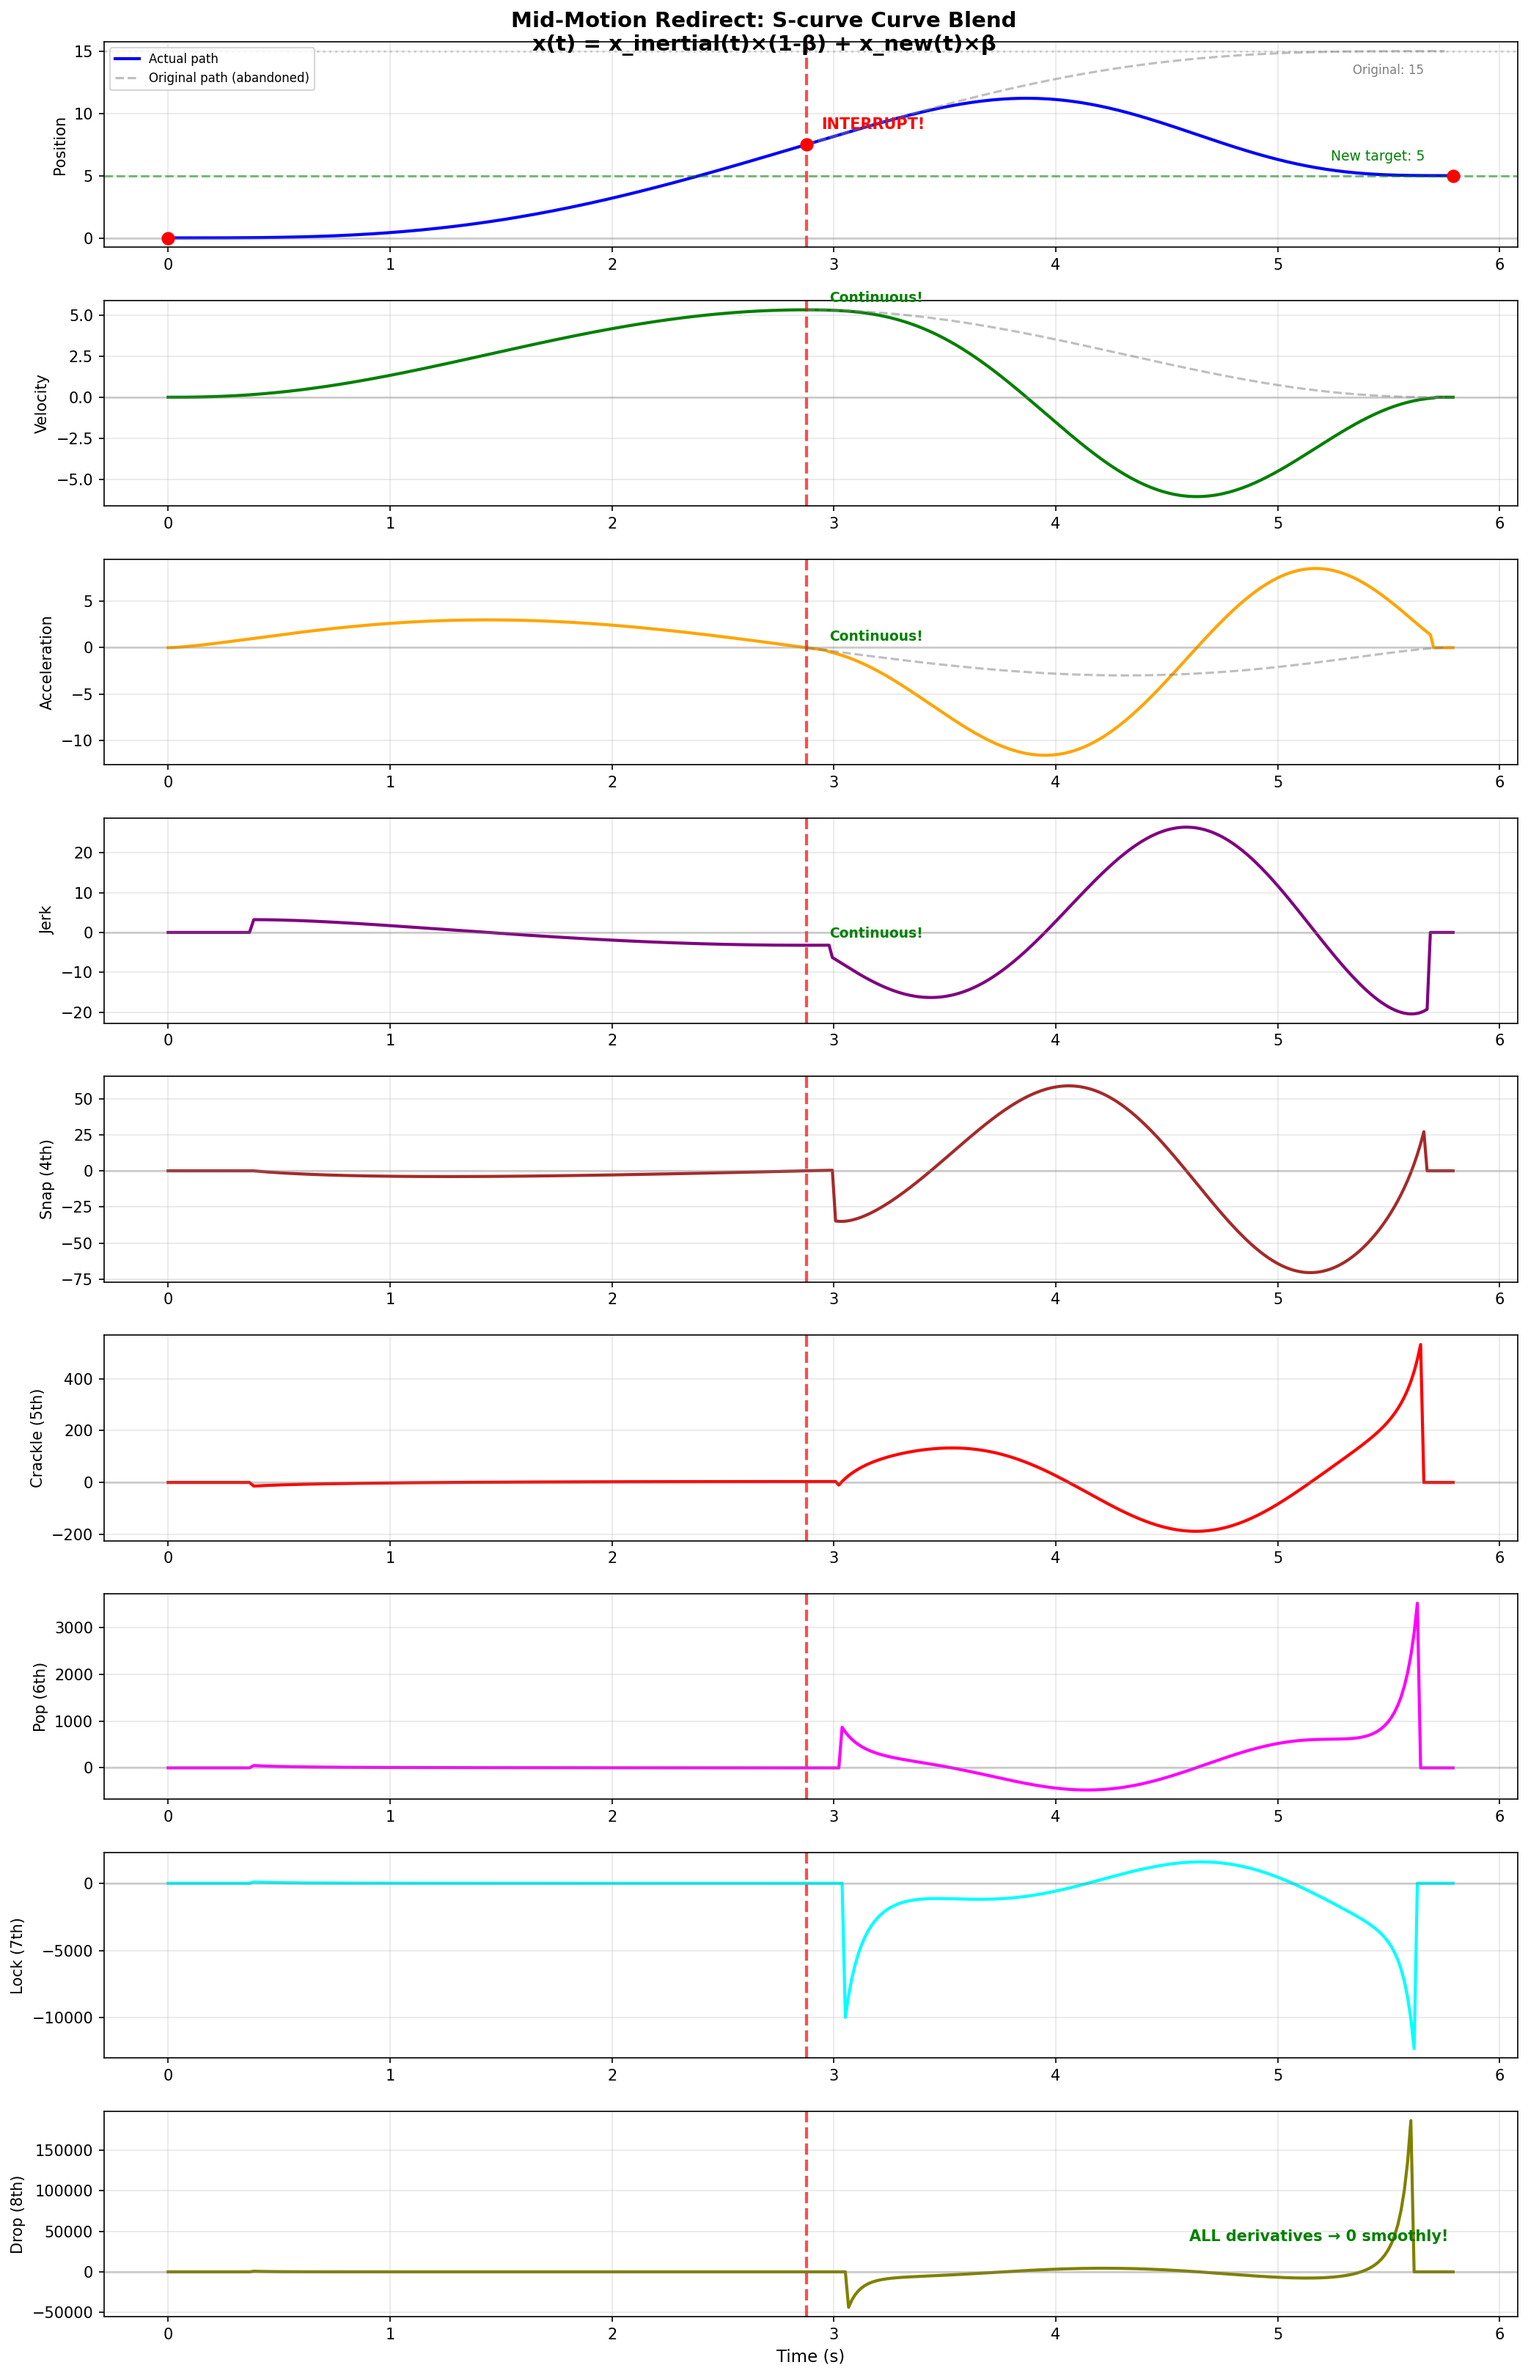
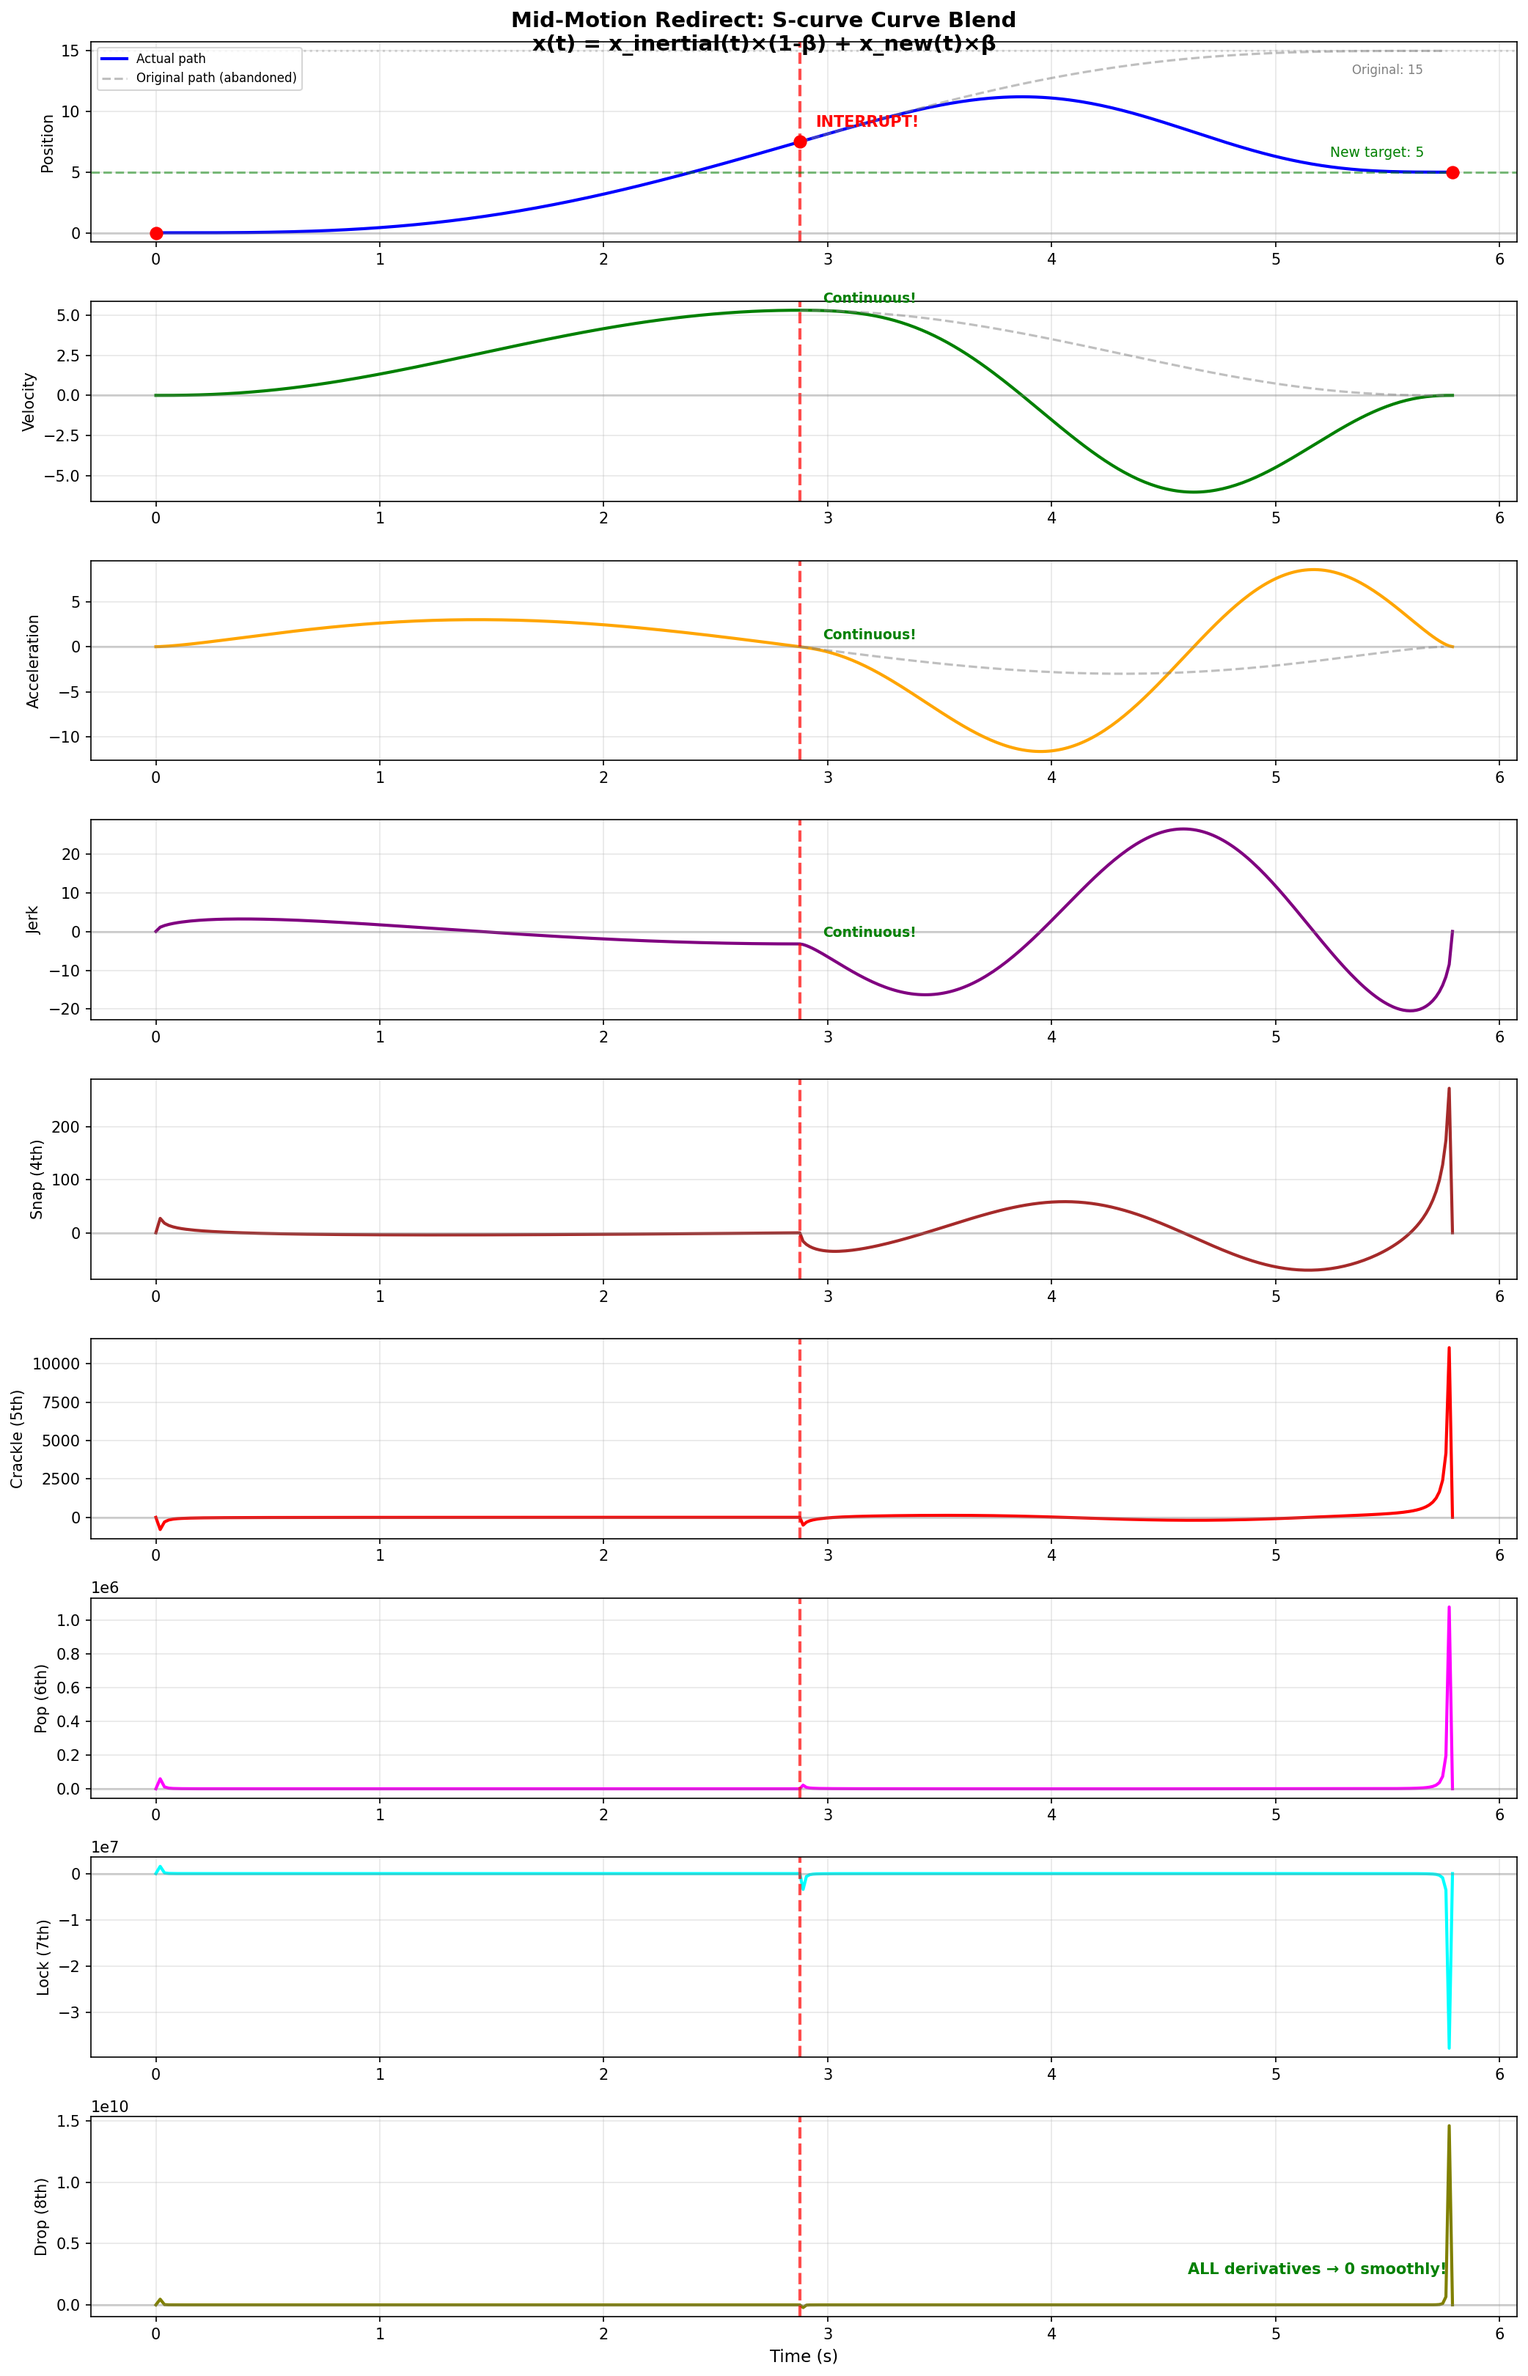
Implement proper Space Shift vs Curve Blend comparison
Both approaches now correctly use x_orig (original S-curve continuation):

Space Shift: x(t) = x_orig(t) + [x_target - x_orig_end] × β(s)
Curve Blend: x(t) = x_orig(t) × (1-β) + x_new(t) × β

Key changes:
- _get_orig_curve_derivatives uses original tau_dot to preserve velocity
- _eval_derivative properly implements both modes
- Both give C∞ continuity at interrupt but follow different paths
- Space Shift has more aggressive higher derivatives after interrupt
- Curve Blend has gentler transitions

diff --git a/src/scurvebeta/generalized.py b/src/scurvebeta/generalized.py
@@ -1456,10 +1456,12 @@ class BetaBlendMotion:
         """
         Compute the k-th derivative of position at time t ANALYTICALLY.
 
-        x(t) = x_inertial(t) * (1-β(s)) + x_new(t) * β(s)
-             = x_inertial(t) + (x_new(t) - x_inertial(t)) * β(s)
-             = x_inertial(t) + Δx(t) * β(s)
+        TWO MODES:
 
+        Space Shift: x(t) = x_orig(t) + [x_target - x_orig_end] × β(s)
+        Curve Blend: x(t) = x_orig(t) × (1-β) + x_new(t) × β
+
+        Both use x_orig (original S-curve continuation), NOT Taylor series!
         Uses the generalized Leibniz rule for derivatives of products.
         """
         t = np.asarray(t, dtype=float)
@@ -1477,25 +1479,83 @@ class BetaBlendMotion:
         beta_derivs = [bd / (T ** k) if T > 0 else (bd if k == 0 else np.zeros_like(t))
                        for k, bd in enumerate(beta_derivs_s)]
 
-        # Get inertial trajectory derivatives (matches initial state perfectly)
-        inertial_derivs = self._get_inertial_derivatives(t, order)
+        # Get original S-curve derivatives (continuation of original motion)
+        orig_derivs = self._get_orig_curve_derivatives(t, order)
 
-        # Get new S-curve derivatives
-        new_derivs = self._get_new_curve_derivatives(t, order)
+        if self.mode == 'shift':
+            # Space Shift: x(t) = x_orig(t) + shift × β(s)
+            # where shift = x_target - x_orig_end (constant)
+            shift = self.x_target - self.x_orig_end
 
-        # Δx^(k) = x_new^(k) - x_inertial^(k)
-        delta_derivs = [new_derivs[k] - inertial_derivs[k] for k in range(order + 1)]
+            # x^(n) = x_orig^(n) + shift × β^(n)
+            # (shift is constant, so its derivatives are 0)
+            result = orig_derivs[order] + shift * beta_derivs[order]
 
-        # Use Leibniz rule: (Δx * β)^(n) = Σ C(n,k) * Δx^(k) * β^(n-k)
-        from math import comb
-        product_deriv = np.zeros_like(t)
-        for k in range(order + 1):
-            product_deriv += comb(order, k) * delta_derivs[k] * beta_derivs[order - k]
+        else:  # mode == 'blend'
+            # Curve Blend: x(t) = x_orig(t) × (1-β) + x_new(t) × β
+            #            = x_orig(t) + (x_new(t) - x_orig(t)) × β
+            #            = x_orig(t) + Δx(t) × β
 
-        # x^(n) = x_inertial^(n) + (Δx * β)^(n)
-        result = inertial_derivs[order] + product_deriv
+            # Get new S-curve derivatives
+            new_derivs = self._get_new_curve_derivatives(t, order)
+
+            # Δx^(k) = x_new^(k) - x_orig^(k)
+            delta_derivs = [new_derivs[k] - orig_derivs[k] for k in range(order + 1)]
+
+            # Use Leibniz rule: (Δx × β)^(n) = Σ C(n,k) × Δx^(k) × β^(n-k)
+            from math import comb
+            product_deriv = np.zeros_like(t)
+            for k in range(order + 1):
+                product_deriv += comb(order, k) * delta_derivs[k] * beta_derivs[order - k]
+
+            # x^(n) = x_orig^(n) + (Δx × β)^(n)
+            result = orig_derivs[order] + product_deriv
 
         return float(result[0]) if scalar else result
+
+    def _get_orig_curve_derivatives(self, t, max_order=8):
+        """
+        Compute x_orig(t) and its derivatives - continuation of original S-curve.
+
+        x_orig continues the original S-curve with the SAME time scaling.
+        This preserves exact velocity/acceleration at t=0.
+
+        τ(t) = τ_current + original_tau_dot × t
+        where original_tau_dot is the tau rate from the original motion.
+        """
+        t = np.asarray(t, dtype=float)
+
+        if self.original_plan is None:
+            # Fallback: use inertial if no original plan
+            return self._get_inertial_derivatives(t, max_order)
+
+        plan = self.original_plan
+        tau_start = plan['tau_start']
+        tau_end = plan['tau_end']
+        original_T = plan['T']
+
+        # Use ORIGINAL motion's tau_dot to preserve velocity at t=0
+        original_tau_dot = (tau_end - tau_start) / original_T if original_T > 0 else 0
+
+        # τ(t) = τ_current + original_tau_dot × t
+        tau = self.tau_current + original_tau_dot * t
+        tau = np.clip(tau, min(tau_start, tau_end), max(tau_start, tau_end))
+
+        # Scaling factor for position
+        f_start = normalized_f(tau_start)
+        delta_f = normalized_f(tau_end) - f_start
+        S = (plan['x1'] - plan['x0']) / delta_f if abs(delta_f) > 1e-10 else 0
+        offset = plan['x0'] - S * f_start
+
+        # Get f and all its derivatives at τ
+        f_derivs = normalized_f_derivatives(tau, max_order)
+
+        # x_orig^(k) = S × f^(k)(τ) × τ_dot^k
+        derivs = []
+        for k in range(max_order + 1):
+            derivs.append(S * f_derivs[k] * (original_tau_dot ** k) + (offset if k == 0 else 0))
+
+        return derivs
 
     def _get_inertial_derivatives(self, t, max_order=8):
         """

diff --git a/generate_plots.py b/generate_plots.py
@@ -821,7 +821,7 @@ def plot_blend_comparison():
 
     # Two approaches
     modes = ['shift', 'blend']
-    titles = ['Space Shift: x_orig + shift×β', 'Curve Blend: x_inertial×(1-β) + x_new×β']
+    titles = ['Space Shift: x_orig + shift×β', 'Curve Blend: x_orig×(1-β) + x_new×β']
     colors = ['blue', 'green']
 
     for col, (mode, title, color) in enumerate(zip(modes, titles, colors)):
